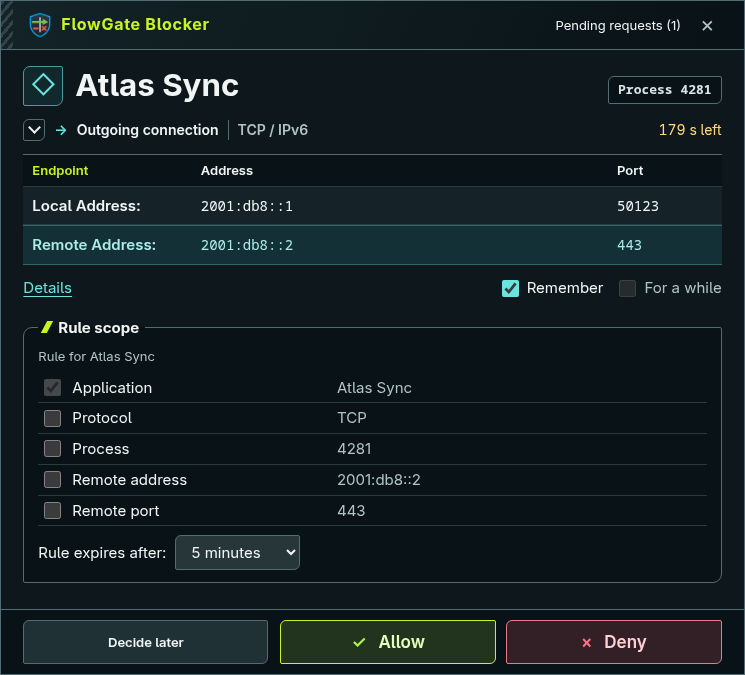
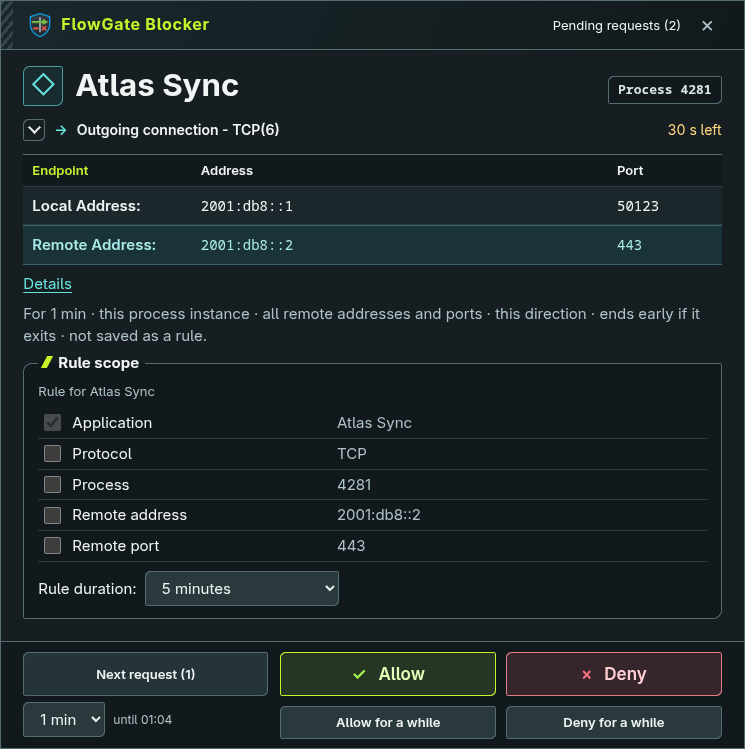
Refresh README screenshots for the redesigned desktop

diff --git a/README.md b/README.md
@@ -12,7 +12,7 @@ the desktop. The per-app monitoring and control workflow takes inspiration from
 [Try the desktop](#try-the-desktop) · [Install FlowGate](#install-flowgate) ·
 [Documentation](#documentation)
 
-![FlowGate Activity view with the traffic chart above the app table and the selected app’s Overview at right](docs/images/flowgate-main-window.png)
+![FlowGate Activity view with download and upload totals in the traffic chart header, the app table below, and the selected app’s Overview at right](docs/images/flowgate-main-window.png)
 
 *The Activity view shows simulated traffic. On wide windows,
 the inspector sits beside the traffic chart and app table.*
@@ -36,9 +36,10 @@ the inspector sits beside the traffic chart and app table.*
   [Limits and priorities](docs/ZONE-SHAPING.txt) ·
   [Download coverage](docs/DOWNLOAD-LIMITER.txt)
 
-![FlowGate Ask prompt for an outgoing TCP connection from a demo app, with its remote endpoint, Remember options, duration, and Allow and Deny buttons visible](docs/images/flowgate-ask-remember.png)
+![FlowGate Ask prompt for an outgoing TCP connection from Atlas Sync, with endpoint details, rule scope, and a row of For a while buttons beneath Allow and Deny](docs/images/flowgate-ask-remember.png)
 
-*An outgoing Ask prompt with Remember expanded and a five-minute duration selected.*
+*An outgoing Ask prompt with a five-minute rule duration. The For a while
+buttons use the one-minute duration below Next request.*
 
 ## Try the desktop
 
